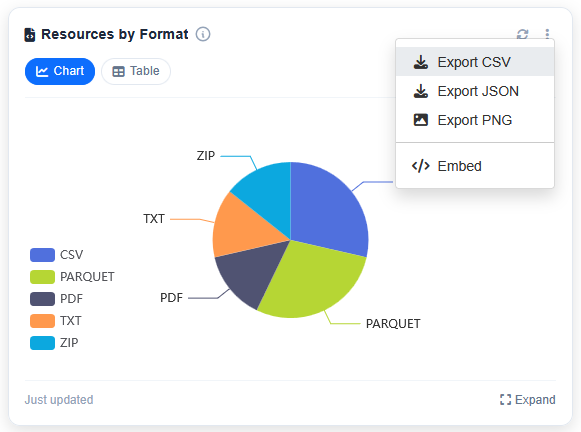
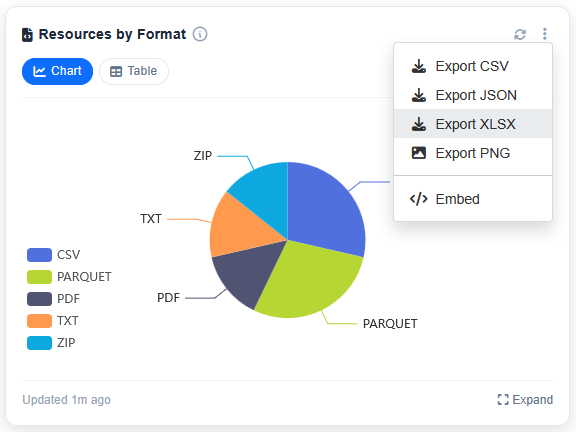
feat: add xlsx export

diff --git a/ckanext/better_stats/views/dashboard.py b/ckanext/better_stats/views/dashboard.py
@@ -3,10 +3,13 @@ import io
 import json
 import logging
 from datetime import datetime, timezone
-from typing import Any
+from typing import Any, cast
 
 from flask import Blueprint, Response, jsonify, make_response
 from flask.views import MethodView
+from openpyxl import Workbook
+from openpyxl.styles import Font
+from openpyxl.worksheet.worksheet import Worksheet
 
 import ckan.plugins.toolkit as tk
 
@@ -211,6 +214,8 @@ class MetricExporter:
             return self._export_as_csv()
         if self.format_type == const.ExportFormat.JSON.value:
             return self._export_as_json()
+        if self.format_type == const.ExportFormat.XLSX.value:
+            return self._export_as_xlsx()
         return make_response(jsonify({"error": tk._("Unsupported format")}), 400)
 
     def _export_as_csv(self) -> Response:
@@ -236,6 +241,33 @@ class MetricExporter:
         response = make_response(json.dumps(envelope, indent=2))
         response.headers["Content-Type"] = "application/json"
         response.headers["Content-Disposition"] = f"attachment; filename={self.filename}.json"
+
+        return response
+
+    def _export_as_xlsx(self) -> Response:
+        wb = Workbook()
+        ws = cast(Worksheet, wb.active)
+        ws.title = self.metric.title[:31]  # Excel sheet name limit
+
+        headers = self.data.get("headers", [])
+        rows = self.data.get("rows", [])
+
+        if headers:
+            ws.append(headers)
+
+            for cell in ws[1]:
+                cell.font = Font(bold=True)
+
+        for row in rows:
+            ws.append([cell.get("text", "") if isinstance(cell, dict) else cell for cell in row])
+
+        output = io.BytesIO()
+        wb.save(output)
+        output.seek(0)
+
+        response = make_response(output.read())
+        response.headers["Content-Type"] = "application/vnd.openxmlformats-officedocument.spreadsheetml.sheet"
+        response.headers["Content-Disposition"] = f"attachment; filename={self.filename}.xlsx"
 
         return response
 

diff --git a/ckanext/better_stats/metrics/base.py b/ckanext/better_stats/metrics/base.py
@@ -26,7 +26,7 @@ class MetricBase(ABC):
     supported_visualizations: ClassVar[list[const.VisualizationType]] = [const.VisualizationType.CHART]
     default_visualization: ClassVar[const.VisualizationType] = const.VisualizationType.CHART
     icon: ClassVar[str] = "fa-solid fa-chart-bar"
-    supported_export_formats: ClassVar[list[str]] = ["csv", "json", "image"]
+    supported_export_formats: ClassVar[list[str]] = ["csv", "json", "xlsx", "image"]
 
     def __init__(  # noqa: PLR0913
         self,

diff --git a/ckanext/better_stats/metrics/dataset_metrics.py b/ckanext/better_stats/metrics/dataset_metrics.py
@@ -24,7 +24,7 @@ class DatasetCountMetric(MetricBase):
     ]
     default_visualization: ClassVar[const.VisualizationType] = const.VisualizationType.TABLE
     icon: ClassVar[str] = "fa-solid fa-database"
-    supported_export_formats = ["csv"]
+    supported_export_formats = ["csv", "xlsx"]
 
     def __init__(self) -> None:
         super().__init__(

diff --git a/ckanext/better_stats/const.py b/ckanext/better_stats/const.py
@@ -17,6 +17,7 @@ class VisualizationType(Enum):
 class ExportFormat(Enum):
     CSV = "csv"
     JSON = "json"
+    XLSX = "xlsx"
     IMAGE = "image"
 
 
